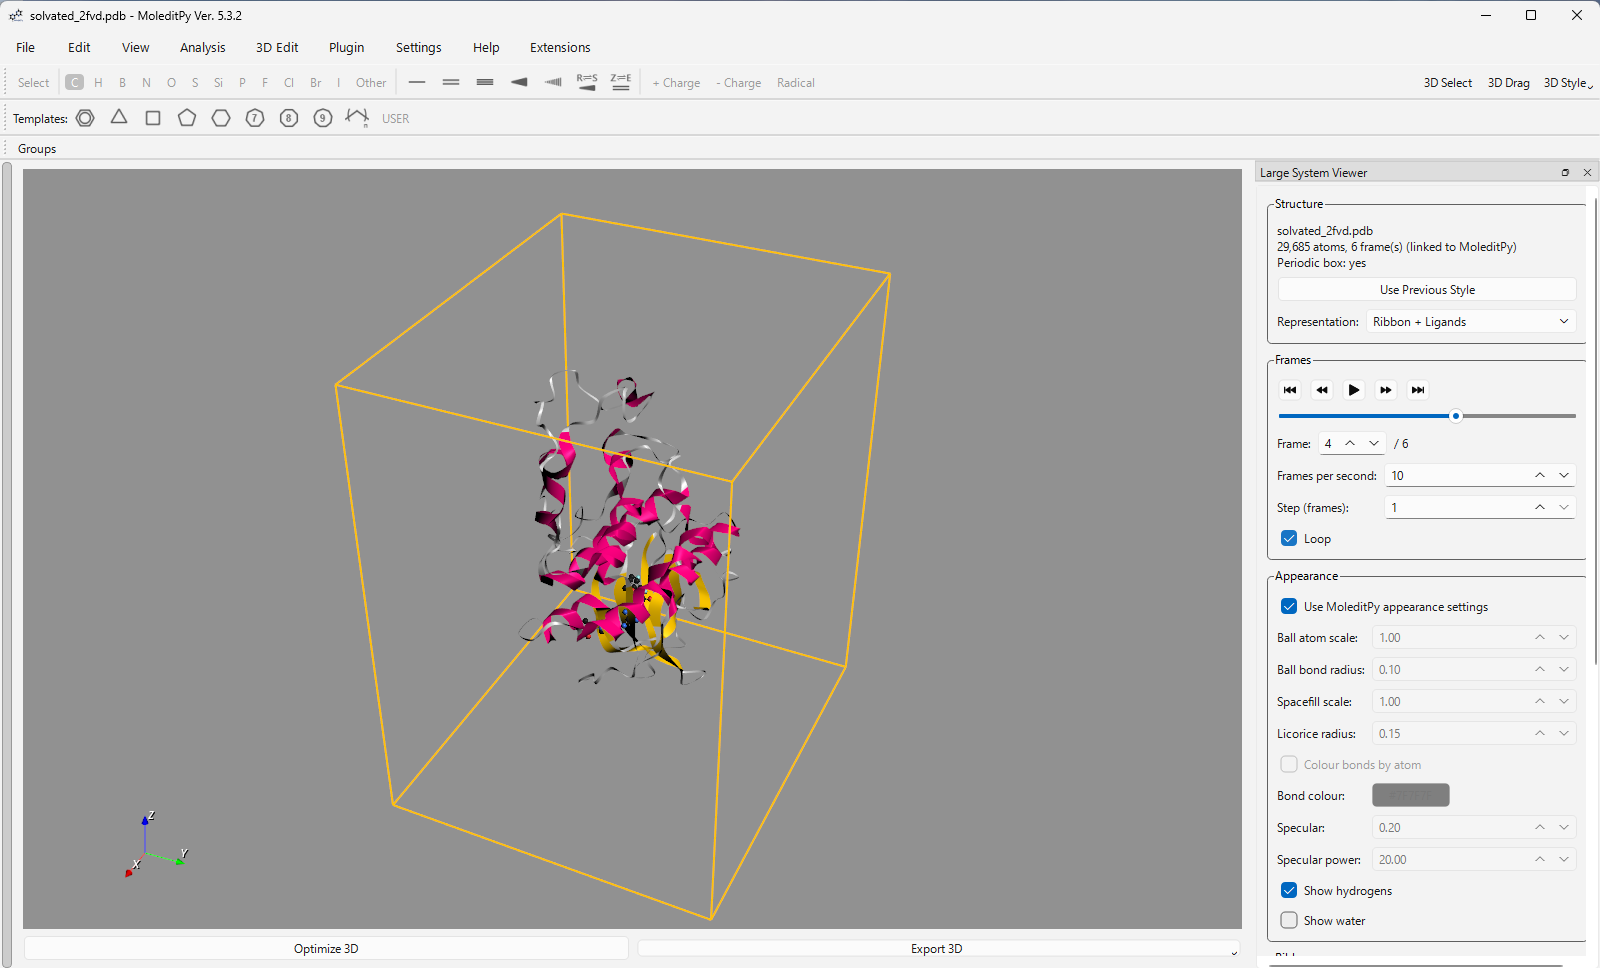
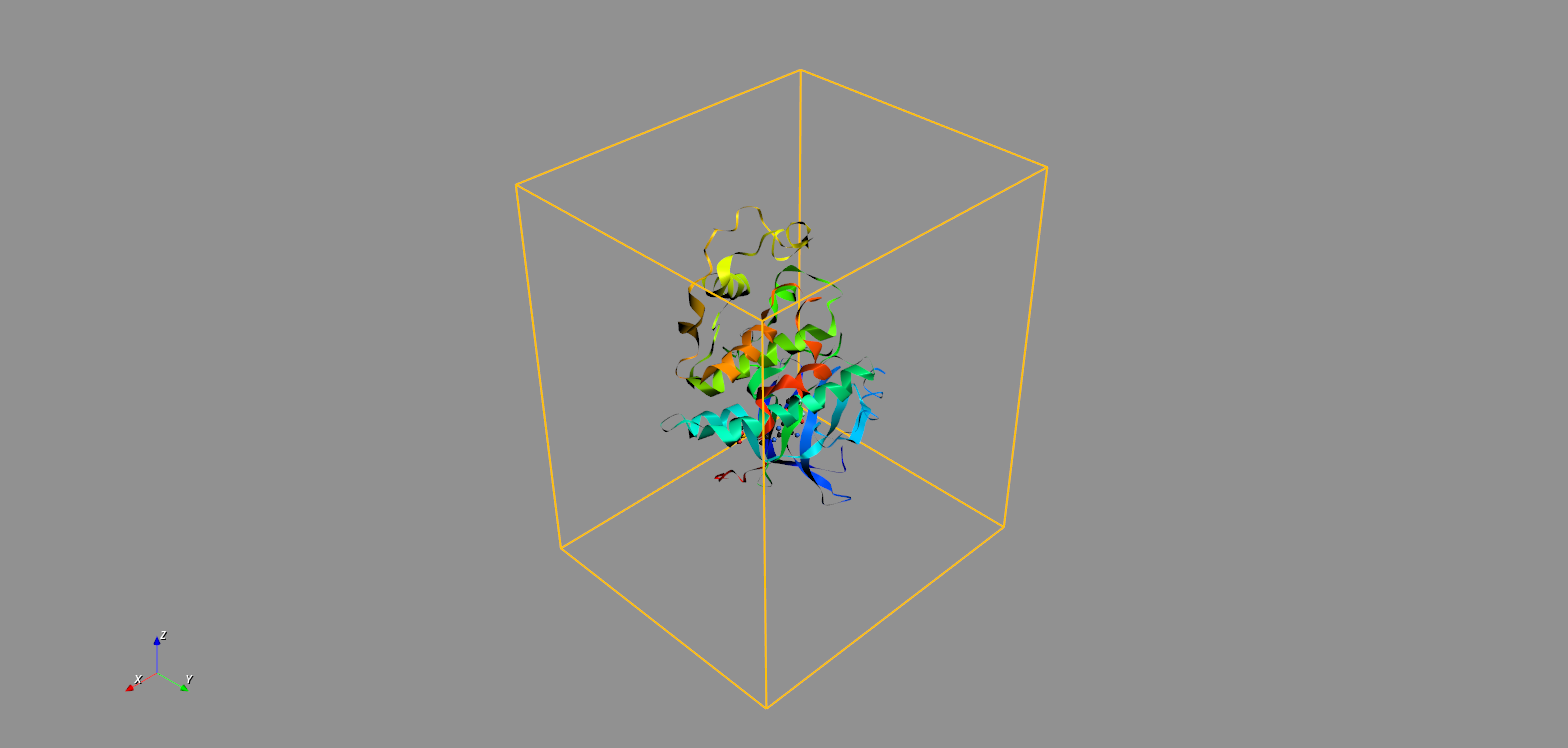
Toolbar, tabbed settings window, ribbon colours and more settings (0.2.0)
- Settings move to tabs in a tool window that opens beside the 3D view
  (first show only, like ORCA Result Analyzer), or in the right-hand dock;
  they open by themselves for large structures unless turned off, and from
  Settings > Large System Viewer Settings...
- New toolbar (bottom or top): representation, frame controls, Fast /
  Previous Style and Settings.
- Value fields take the mouse wheel only when focused, using ORCA Input
  Generator Pro's wheel guard.
- Ribbon colour by secondary structure (own colours), rainbow N to C,
  chain or one colour; ribbon and atom opacity; ligand style for Ribbon +
  Ligands; back-and-forth playback.
- README and DESIGN updated with new screenshots.

diff --git a/large_system_viewer/controller.py b/large_system_viewer/controller.py
@@ -117,7 +117,7 @@ class Controller:
             self.refresh()
         if key == "panel_mode":
             self._later(self._move_panel)
-        elif key == "show_toolbar":
+        elif key in ("show_toolbar", "toolbar_area"):
             self._sync_panel()
 
     def reset_keys(self, keys):
@@ -294,7 +294,10 @@ class Controller:
             return
         self._playing = True
         host.set_interaction_enabled(self.mw, False)
+        if s.index == 0:
+            self._direction = 1
         if s.index >= s.n_frames - 1 and not self.values["loop"]:
+            self._direction = 1
             self.show_frame(0, commit=False)
         self._schedule(0)
         self._sync_panel()
@@ -336,7 +339,9 @@ class Controller:
         started = time.perf_counter()
         nxt = self._next_index(s.index, s.n_frames)
         if nxt is None:
-            self.show_frame(s.n_frames - 1, commit=False)
+            # The end: the last frame, or the first after playing there and back.
+            last = 0 if self.values.get("bounce") else s.n_frames - 1
+            self.show_frame(last, commit=False)
             self.pause()
             return
         self.show_frame(nxt, commit=False)

diff --git a/README.md b/README.md
@@ -23,6 +23,10 @@ Repo: [https://github.com/HiroYokoyama/moleditpy_large_system_viewer](https://gi
   arrives under another style, the plugin asks whether to switch. Yes is the default, No
   keeps the current style, and "Do not ask again" remembers the answer.
 - **Representations**: Ball and Stick, Spacefill, Licorice, Ribbon, Ribbon + Ligands.
+- **Ribbon colours**: by secondary structure (helix, sheet and coil colours of your choice),
+  rainbow from the N to the C terminus, by chain, or one colour; ribbon and atom opacity.
+- **Toolbar**: representation, frame controls and the settings at the bottom (or top) of
+  the main window.
 - **Trajectories**: multi-model PDB, GRO, multi-frame XYZ and multi-record SDF play with
   first / previous / play / next / last buttons, a slider, frame rate, step and loop.
   Frames are read lazily from a memory-mapped file, so long trajectories are never loaded whole.
@@ -36,7 +40,9 @@ Repo: [https://github.com/HiroYokoyama/moleditpy_large_system_viewer](https://gi
 - **Works with the CIF Viewer**: CIF supercells above the threshold are offered the Fast style
   and keep the CIF Viewer's cell overlays.
 
-![The same system as Ribbon + Ligands with water hidden](https://raw.githubusercontent.com/HiroYokoyama/moleditpy_large_system_viewer/main/docs/images/protein_ribbon.png)
+![The same system as Ribbon + Ligands, rainbow coloured, with water hidden](https://raw.githubusercontent.com/HiroYokoyama/moleditpy_large_system_viewer/main/docs/images/protein_ribbon.png)
+
+![The toolbar at the bottom of the main window](https://raw.githubusercontent.com/HiroYokoyama/moleditpy_large_system_viewer/main/docs/images/toolbar.png)
 
 ---
 
@@ -44,27 +50,29 @@ Repo: [https://github.com/HiroYokoyama/moleditpy_large_system_viewer](https://gi
 
 1. Open a `.pdb`, `.ent`, `.gro`, `.xyz` or `.sdf` file (File > Open, File > Import, the
    command line or drag and drop). Small single-frame files open exactly as before.
-2. For a large structure, answer **Yes** to use the Fast style. The **Large System Viewer**
-   panel opens on the right.
-3. Choose a representation, play the frames, or change any setting in the panel. Reopen
-   the panel from **View > Large System Viewer Panel**.
-4. **Use Previous Style** in the panel returns to the style you had before.
+2. For a large structure, answer **Yes** to use the Fast style. The toolbar appears and
+   the settings window opens beside the 3D view (both can be turned off).
+3. Choose a representation and play the frames from the toolbar. Open the settings from the
+   toolbar's **Settings...** button or **Settings > Large System Viewer Settings...**.
+4. **Previous Style** on the toolbar returns to the style you had before.
 
 ![NMR models played as frames](https://raw.githubusercontent.com/HiroYokoyama/moleditpy_large_system_viewer/main/docs/images/nmr_models.png)
 
 ### Settings
 
-Every setting is in the panel and is saved in `settings.json` beside the plugin:
+The settings are on tabs, in a separate window or (a setting) the right-hand panel, and
+are saved in `settings.json` beside the plugin. Each tab has its own Reset button. A field
+reacts to the mouse wheel only after you click it, so scrolling never changes a value.
 
-![Panel settings: appearance, ribbon, periodic box and switching](https://raw.githubusercontent.com/HiroYokoyama/moleditpy_large_system_viewer/main/docs/images/settings_panel.png)
+![The settings window, Ribbon tab](https://raw.githubusercontent.com/HiroYokoyama/moleditpy_large_system_viewer/main/docs/images/settings_panel.png)
 
-| Group | Settings |
+| Tab | Settings |
 |---|---|
-| Frames | frames per second, step, loop |
-| Appearance | use MoleditPy appearance settings, ball atom scale, ball bond radius, spacefill scale, licorice radius, colour bonds by atom, bond colour, specular, specular power, show hydrogens, show water |
-| Ribbon | helix/sheet width, coil width, smoothness |
-| Periodic Box | show box, colour, line width |
-| Switching | large-structure action (ask / always switch / keep), threshold, restore the previous style for small structures, view-only limit |
+| Structure | representation, frames per second, step, loop, play back and forth |
+| Appearance | use MoleditPy appearance settings, ball atom scale, ball bond radius, spacefill scale, licorice radius, colour bonds by atom, bond colour, specular, specular power, show hydrogens, show water, atom opacity, ligand style for Ribbon + Ligands |
+| Ribbon | colour by (secondary structure / rainbow / chain / single colour), helix, sheet, coil and single colours, helix/sheet width, coil width, smoothness, opacity |
+| Box | show box, colour, line width |
+| Behaviour | large-structure action (ask / always switch / keep), threshold, restore the previous style for small structures, view-only limit, settings in a window or the right-hand panel, open the settings for a large structure, show the toolbar, toolbar at the bottom or top |
 
 Projects (`.pmeprj`) remember the trajectory file, frame and representation, and reattach
 the trajectory on load when the file is still there.

diff --git a/DESIGN.md b/DESIGN.md
@@ -50,7 +50,8 @@ large_system_viewer/
   session.py    the displayed system and its frames, committing a frame to the host
   host.py       every touch point with host internals (loading, styles, molecule hook, export guard)
   controller.py routing, style switching, playback, persistence handlers
-  panel.py      right-hand dock panel (representation, playback, settings) and the switch question
+  panel.py      settings tabs (window or dock), toolbar and the switch question
+  wheel_guard.py  value fields take the wheel only when focused (as in ORCA Input Generator Pro)
   settings.py   plugin settings (settings.json)
 ```
 
@@ -149,7 +150,18 @@ otherwise the host loads it.
   its nearest partner) plus PDB CONECT records. Bonds are not recomputed for later frames.
   Periodic boundaries are ignored.
 
-## 6. UI (right-hand dock panel)
+## 6. UI (toolbar and settings)
+
+The toolbar (bottom or top of the main window) holds the representation, first / previous /
+play-pause / next / last, a frame slider and number, the Fast / Previous Style button and a
+Settings button. It is shown while a session exists or the Fast style is active.
+
+The settings are tabs (Structure, Appearance, Ribbon, Box, Behaviour) in a tool window that
+opens near the main window's right edge on first show, or in a right-hand dock
+(`panel_mode`). They open by themselves when a large structure arrives unless
+`auto_open_panel` is off, and from Settings > Large System Viewer Settings... Spin boxes,
+combo boxes and sliders ignore the wheel until focused, so scrolling a tab never changes a
+value.
 
 - Structure: file name, atoms, frames, mode (hybrid / view-only / conformers), whether a box
   was found, notes (ribbon fallback, detached session).
@@ -157,11 +169,14 @@ otherwise the host loads it.
 - Frames: first / previous / play-pause / next / last, slider, frame number, fps, step, loop.
 - Appearance: inherit-from-MoleditPy switch and the plugin's own radii, bond colour and
   specular values (disabled while inheriting), hydrogens and water on/off.
-- Ribbon widths and smoothness; periodic box on/off, colour and line width.
+- Ribbon colour mode, colours, widths, smoothness and opacity; periodic box on/off, colour
+  and line width. vtkProteinRibbonFilter ignores per-atom colours and paints helix
+  (255, 0, 128), sheet (255, 200, 0) and coil itself, so the plugin builds one ribbon per
+  chain and recolours the filter output after every update. Rainbow maps each output point
+  to its nearest CA once per build (the point layout does not change between frames).
 - Switching: large-structure action (ask / switch / keep), threshold, restore previous
   style, view-only atom limit. A reset button restores the defaults.
 
-The panel opens when a session starts and can be opened from the View menu.
 
 ## 7. Persistence
 
